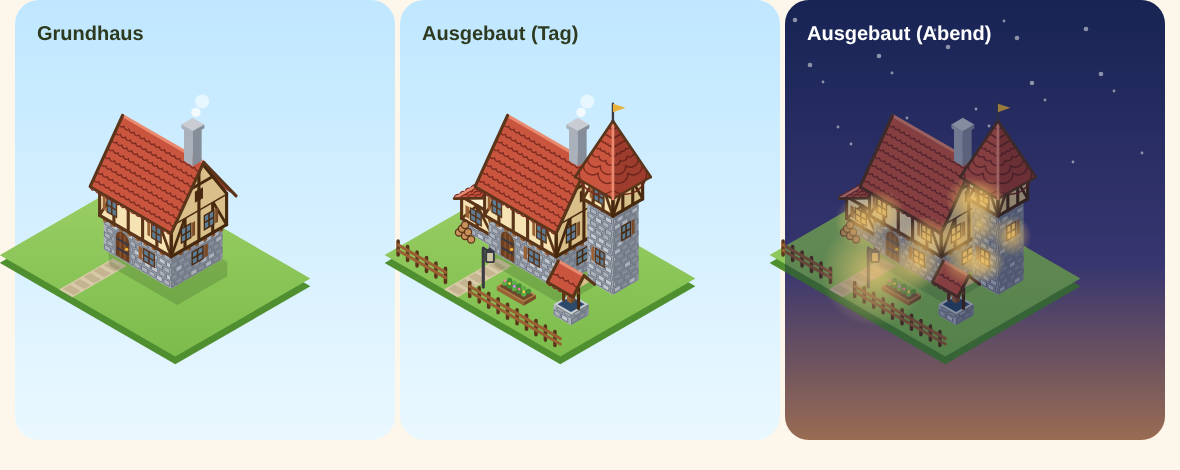
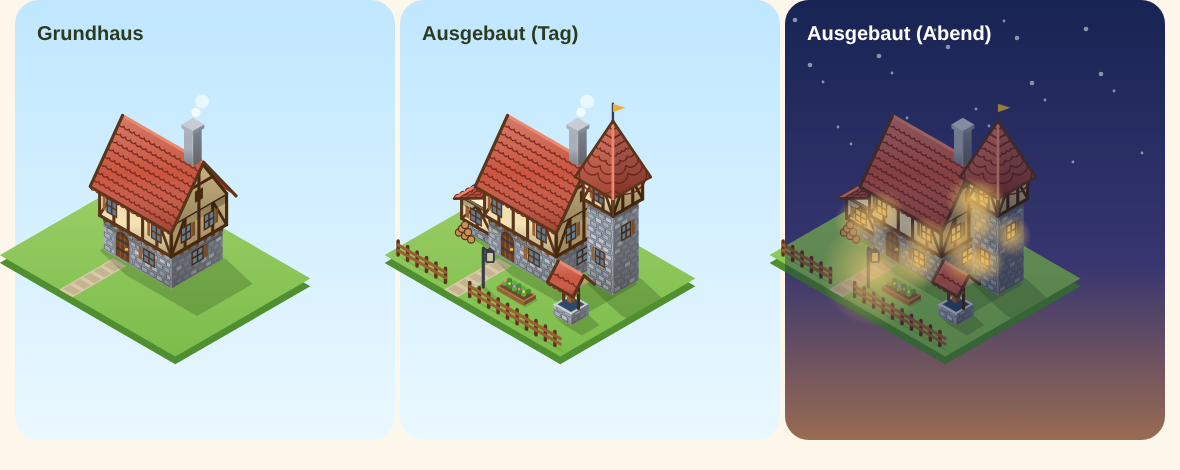
Stilprobe 3: Tiefe durch Verläufe, Traufschatten und Schlagschatten
Claude-Session: https://claude.ai/code/session_01XJj3poVCpdrs5UuYyGNmVj

diff --git a/.claude/skills/grafik/SKILL.md b/.claude/skills/grafik/SKILL.md
@@ -20,6 +20,9 @@ No Figma, no paid AI generators without asking the teacher (credits). Hugging Fa
 - One projection for everything: 2:1 iso (x right-down, y left-down, z up). Light top left, as in `stil.ts`.
 - Build add-ons from the **same** helpers and materials as the house (same roof tiles, same timber, same stone).
   An add-on is drawn on the house's grid and shares its wall height steps.
+- Depth (teacher, 18.11.): gradient overlays per face (`tiefe`: walls darker toward the ground, right side darker),
+  shadow bands under eaves and the jetty (`band`), roofs lighter at the ridge, cast shadows on the ground toward
+  bottom right (`schlag`), clipped to the ground. No blur.
 - Medieval look: timber framing (Fachwerk) with dark beams, stone plinth, steep roofs with tiles or thatch,
   small windows with crossbars, wooden doors with round arch, chimney of stone. No glass fronts, no flat roofs.
 
